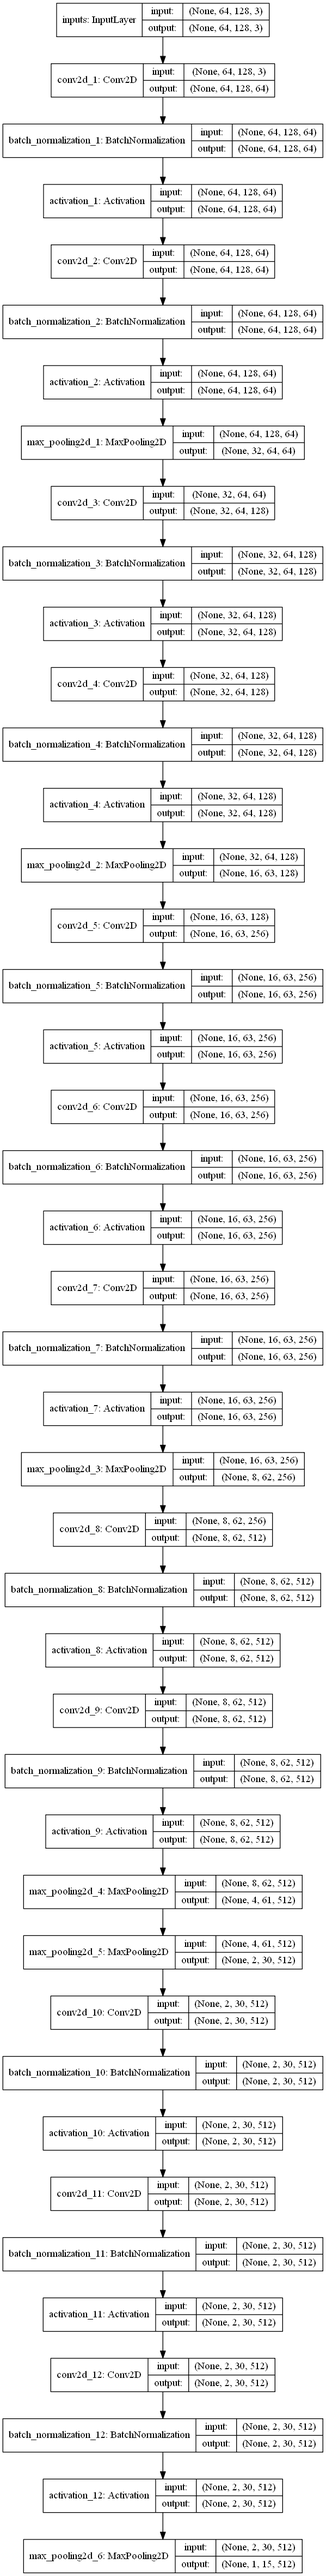
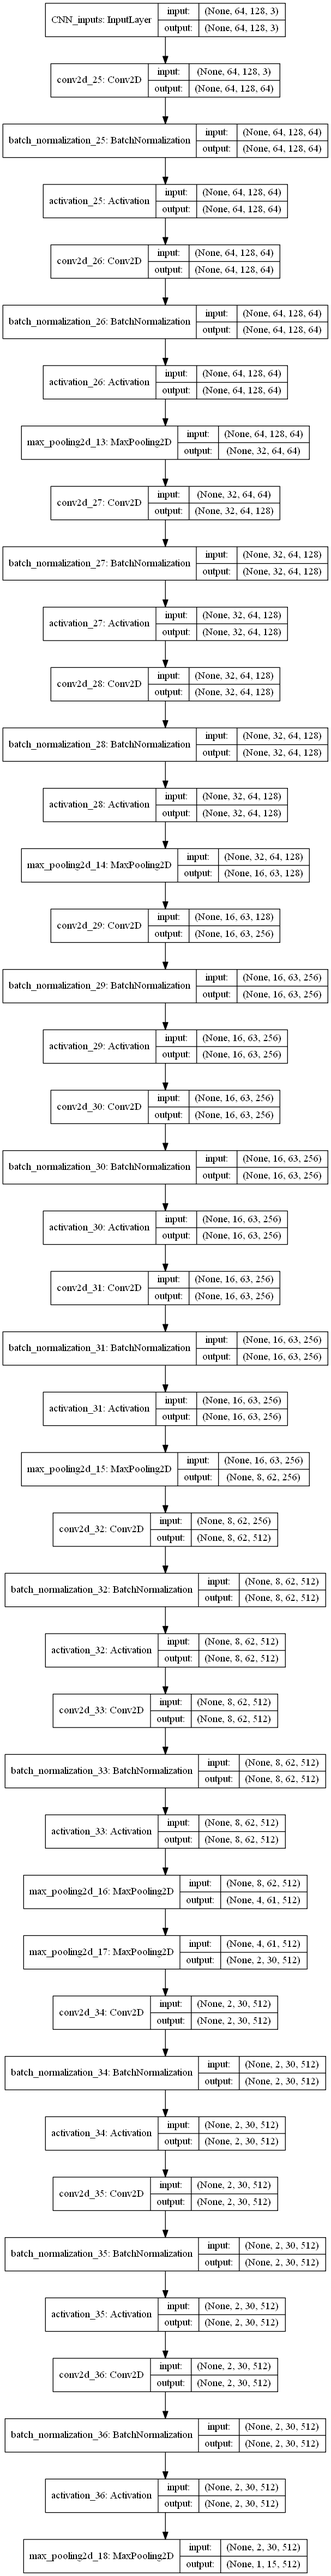
m

diff --git a/model.py b/model.py
@@ -2,10 +2,11 @@
 import yaml
 import numpy as np
 from keras.layers import Conv2D, Input, MaxPooling2D
-from keras.layers import BatchNormalization, Bidirectional, Activation
+from keras.layers import Bidirectional, LSTM
+from keras.layers import BatchNormalization, Bidirectional, Activation, Dropout
 from keras.models import Model
-
 from keras.utils import plot_model
+from keras import backend as K 
 
 config_path = "./conf/conf.yaml"
 
@@ -15,7 +16,8 @@ class CRNN:
         
         self.config = self.get_Config()
         self.input_shapes = input_shapes
-        self.CNN_layer = self.make_CNN
+        self.CNN_layer = self.make_CNN()
+        self.RNN_layer = self.make_RNN()
 
     def get_Config(self):
         with open(config_path, "r") as stream:
@@ -29,7 +31,8 @@ class CRNN:
         
         layers = ["L1", "L2", "M", "L3", "L4", "C", "L5", "L6", "L7", "C", "L8", "L9", "C", "M", "L10", "L11", "L12", "M"]
         
-        inputs = Input(shape=self.input_shapes, name="inputs")
+        input_shapes = self.input_shapes
+        inputs = Input(shape=input_shapes, name="CNN_inputs")
 
         inner = Conv2D(filters=CNN_CONFIG["L1"]["filters"], kernel_size=(CNN_CONFIG["L1"]["kernels"], CNN_CONFIG["L1"]["kernels"]),
                         padding=CNN_CONFIG["L1"]["padding"])(inputs)
@@ -51,11 +54,29 @@ class CRNN:
         plot_model(model, to_file='CNN.png', show_shapes=True)
         return model
 
+    def make_RNN(self):
+        input_shapes = K.int_shape(self.CNN_layer.layers[-1].output)
+        input_shapes = input_shapes[2:]
+        print("RNN input shapes = ", input_shapes)
+
+        inputs = Input(shape=input_shapes, name="RNN_input")
+        inner = Bidirectional(LSTM(units=128, return_sequences=True, dropout=0.3))(inputs)
+        inner = Bidirectional(LSTM(units=64, return_sequences=True, dropout=0.3))(inner)
+        inner = Dropout(rate=0.25)(inner)
+
+        
+
+        model = Model(inputs, inner)
+        plot_model(model, to_file='RNN.png', show_shapes=True)
+        return model
+
+
 
 input_shapes = (64, 128, 3)
 model = CRNN(input_shapes).make_CNN()
+model2 = CRNN(input_shapes).make_RNN()
 
 model.summary()
-
+model2.summary()
 
 
